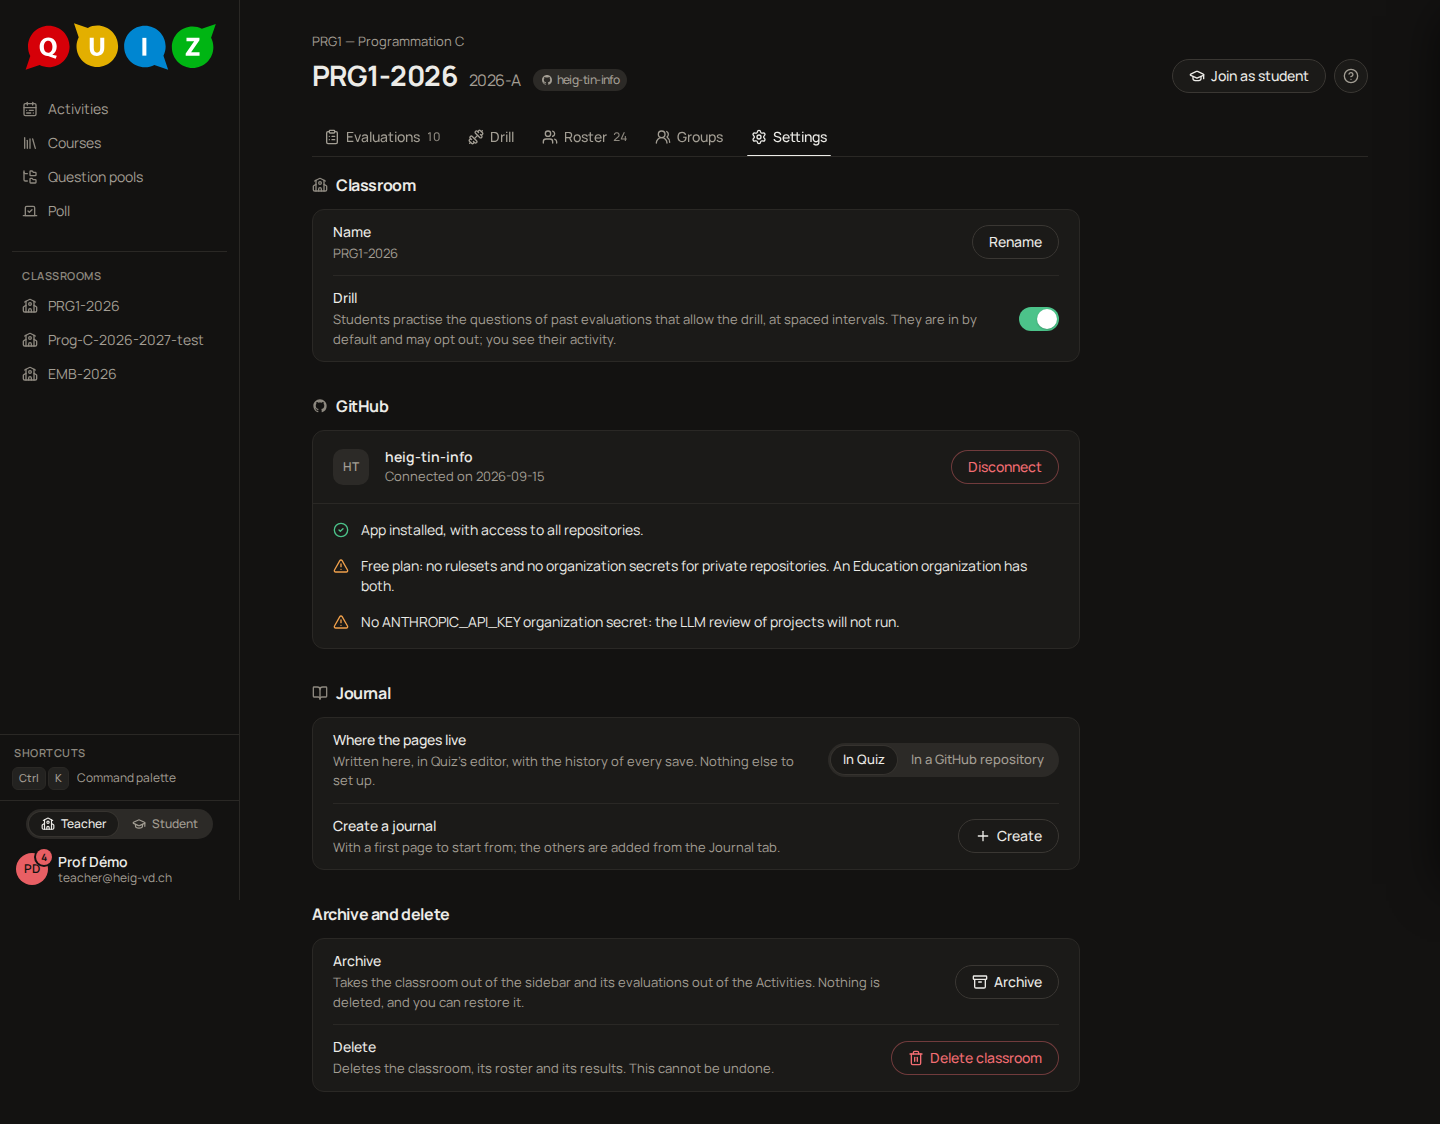
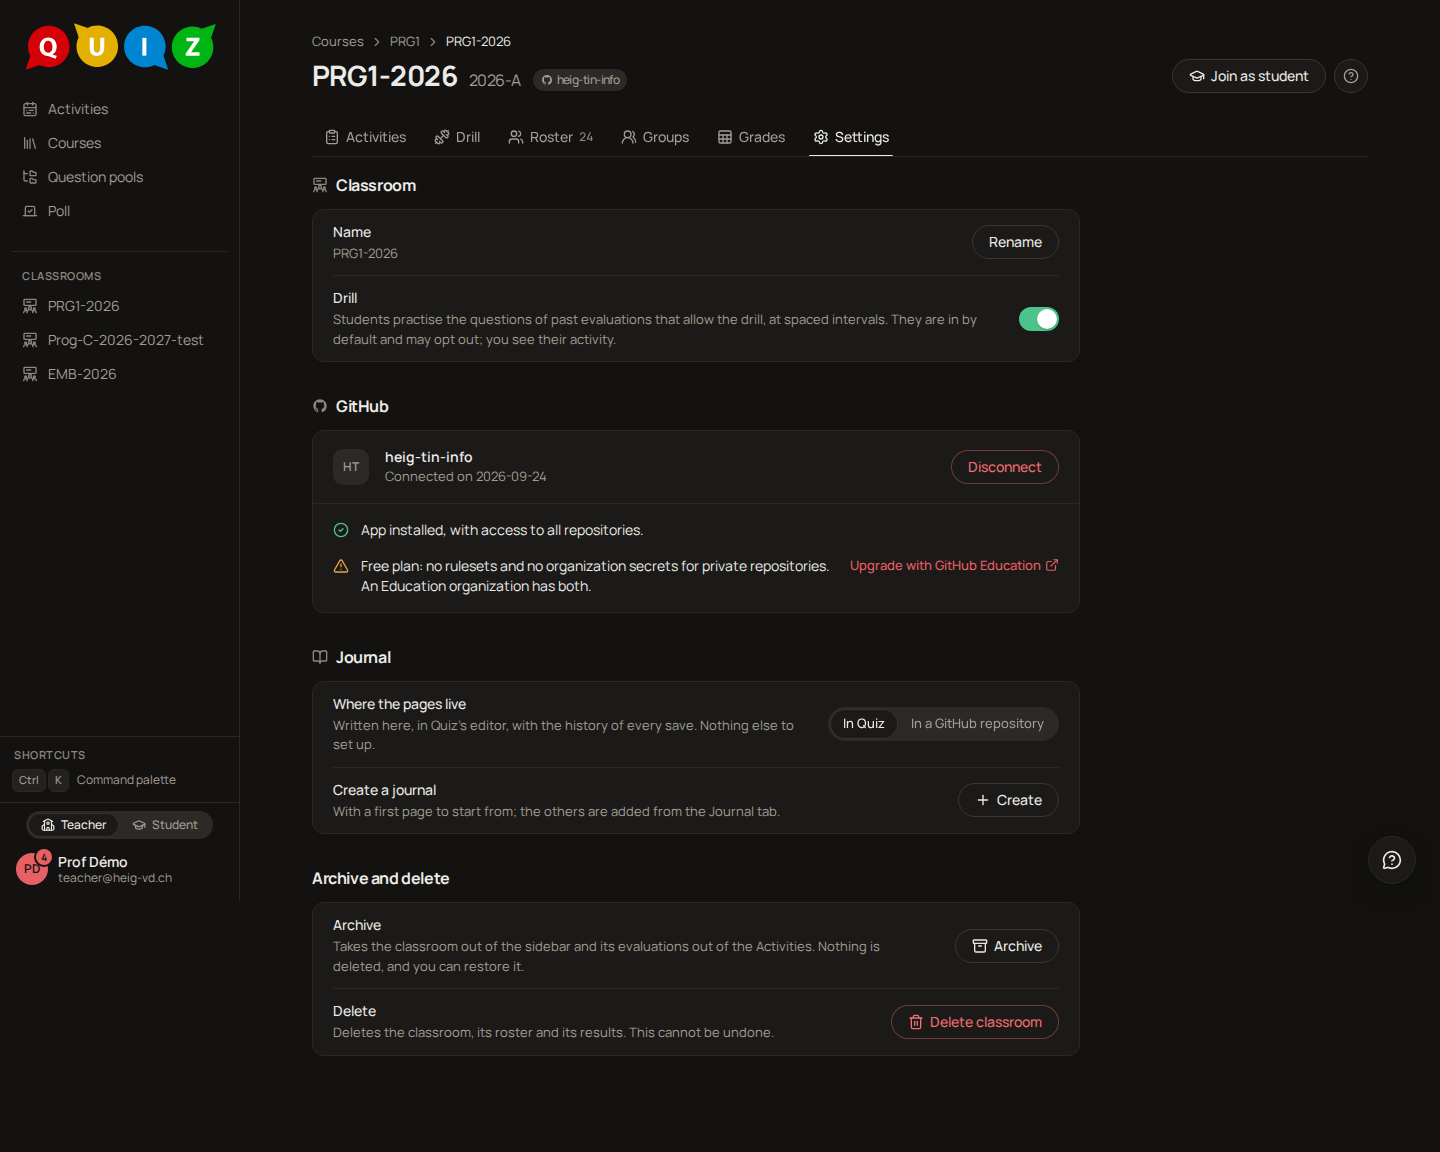
M3-14f: drop the ANTHROPIC_API_KEY organization-secret check
Product owner, 2026-10-14: Quiz reviews projects with its own LLM access
(ADR-106), so the organization's key no longer depends on Quiz and is no
longer checked. The probe `fetchOrgLlmSecret` and its fake route go,
`GithubChecks` keeps `allRepositories` only, the classroom's GitHub section
shows two checks (installation, plan) and the `github.check.llm*` strings
are removed from en and fr. The App manifest no longer asks for
`organization_secrets`; no code reads an organization's secrets. The
existing Apps keep the permission until their owner removes it on GitHub
(docs/development/github-app.md).

F-GH-03, F-PROJ-11 and N-DATA-05 amended (dated); the guides, the
screenshot of the checks, PROGRESS and the card updated.

diff --git a/apps/api/src/modules/github/github.db.test.ts b/apps/api/src/modules/github/github.db.test.ts
@@ -55,7 +55,6 @@ const installedOrg = (githubOrgId: number, login: string, installationId: number
   installationId,
   selection: "all",
   plan: "team",
-  secret: true,
   exists: true,
   ...more,
 });
@@ -205,7 +204,7 @@ describe("the setup return", () => {
   });
 
   it("records a confirmed installation once, however often GitHub returns", async () => {
-    orgs = [installedOrg(601, "heig-setup", 81, { plan: "free", secret: false })];
+    orgs = [installedOrg(601, "heig-setup", 81, { plan: "free" })];
     for (let i = 0; i < 2; i += 1) {
       expect((await setup("installation_id=81&setup_action=install")).statusCode).toBe(303);
     }
@@ -334,7 +333,7 @@ describe("a classroom's link", () => {
     expect(res.statusCode).toBe(200);
     expect(res.json<GithubClassroom>().link).toMatchObject({
       org: { id: installed.id, installed: true },
-      checks: { allRepositories: true, llmSecret: "present" },
+      checks: { allRepositories: true },
     });
     expect(await audits("github_org.link", room)).toHaveLength(1);
     // The same organization again writes nothing.
@@ -547,25 +546,25 @@ describe("the lazy healing", () => {
     const room = await classroom("heal");
     const imported = await orgRow({ login: "heig-imported" });
     await link(room, imported.id);
-    orgs = [installedOrg(901, "heig-imported", 111, { selection: "selected", secret: false })];
+    orgs = [installedOrg(901, "heig-imported", 111, { selection: "selected" })];
 
     const read = async () => (await call("GET", `/app/api/classrooms/${room}/github`, teacher)).json<GithubClassroom>();
     const first = await read();
     expect(first.link).toMatchObject({
       org: { id: imported.id, installed: true, status: "active", plan: "team" },
-      checks: { allRepositories: false, llmSecret: "missing" },
+      checks: { allRepositories: false },
     });
     expect(first.link!.org.avatarUrl).toBe(`/app/api/github/orgs/${imported.id}/avatar`);
     expect(await audits("github_org.installation_resolved", imported.id)).toHaveLength(1);
 
     // Within the minute: the stored row and the cached checks, no GitHub call.
     gh.calls.length = 0;
-    orgs[0]!.secret = true;
-    expect((await read()).link!.checks.llmSecret).toBe("missing");
+    orgs[0]!.selection = "all";
+    expect((await read()).link!.checks.allRepositories).toBe(false);
     expect(gh.calls).toEqual([]);
 
     server.clock.advance(HEAL_TTL_MS);
-    expect((await read()).link!.checks.llmSecret).toBe("present");
+    expect((await read()).link!.checks.allRepositories).toBe(true);
     expect(gh.calls.length).toBeGreaterThan(0);
   });
 
@@ -587,7 +586,7 @@ describe("the lazy healing", () => {
     const res = await call("GET", `/app/api/classrooms/${room}/github`, teacher);
     expect(res.json<GithubClassroom>().link).toMatchObject({
       org: { installed: false, status: "deleted" },
-      checks: { allRepositories: null, llmSecret: "unknown" },
+      checks: { allRepositories: null },
     });
     expect(await audits("github_org.installation_deleted", gone.id)).toHaveLength(1);
     expect(await audits("github_org.deleted", gone.id)).toHaveLength(1);
@@ -637,7 +636,7 @@ describe("the lazy healing", () => {
     const healed = await call("GET", `/app/api/classrooms/${room}/github`, teacher);
     expect(healed.json<GithubClassroom>().link).toMatchObject({
       org: { id: org.id, installed: false, status: "active" },
-      checks: { allRepositories: null, llmSecret: "unknown" },
+      checks: { allRepositories: null },
     });
     expect(await orgById(org.id)).toMatchObject({ installationId: 171, status: "active" });
     expect((await orgById(org.id)).suspendedAt).not.toBeNull();
@@ -671,7 +670,7 @@ describe("the lazy healing", () => {
     const res = await call("GET", `/app/api/classrooms/${room}/github`, teacher);
     expect(res.json<GithubClassroom>().link).toMatchObject({
       org: { id: ours.id, installed: false, status: "deleted" },
-      checks: { allRepositories: null, llmSecret: "unknown" },
+      checks: { allRepositories: null },
     });
     expect(await orgById(ours.id)).toMatchObject({ githubOrgId: 1101, installationId: null, status: "deleted" });
     // The classroom stays on its own organization, now deleted.

diff --git a/apps/web/src/github/checks.ts b/apps/web/src/github/checks.ts
@@ -3,13 +3,12 @@
  * as data: one line per fact, its state, and the sentence that words it.
  * The API sends each fact once (M2-01): the installation line is derived
  * from the organization (`installed`, `status`) and `checks.allRepositories`,
- * the plan line from `org.plan` (`free` ⇒ the warning, null ⇒ unknown), the
- * LLM secret line from `checks.llmSecret`. No sentence comes from the server
- * (invariant 1).
+ * the plan line from `org.plan` (`free` ⇒ the warning, null ⇒ unknown). The
+ * organization's `ANTHROPIC_API_KEY` secret is no longer checked (M3-14f).
+ * No sentence comes from the server (invariant 1).
  *
  * Only the installation line blocks: without the App on every repository,
- * nothing GitHub-backed works. A free plan and a missing secret are
- * warnings; a fact GitHub did not tell is `unknown`, never green. The levels
+ * nothing GitHub-backed works. A free plan is a warning; a fact GitHub did not tell is `unknown`, never green. The levels
  * are the launch checklist's (`CheckLevel`, `ui`).
  */
 import type { GithubClassroomLink } from "@quiz/contracts";
@@ -18,7 +17,7 @@ import type { Dict } from "../i18n/en";
 import type { CheckLevel } from "../ui";
 
 export interface CheckLine {
-  id: "installation" | "plan" | "llmSecret";
+  id: "installation" | "plan";
   level: CheckLevel;
   text: keyof Dict;
   vars?: Record<string, string>;
@@ -55,13 +54,7 @@ function planLine({ org }: GithubClassroomLink): CheckLine {
   return { id, level: "ok", text: "github.check.plan", vars: { plan: org.plan } };
 }
 
-const LLM_SECRET: Record<GithubClassroomLink["checks"]["llmSecret"], CheckLine> = {
-  present: { id: "llmSecret", level: "ok", text: "github.check.llmPresent" },
-  missing: { id: "llmSecret", level: "warning", text: "github.check.llmMissing" },
-  unknown: { id: "llmSecret", level: "unknown", text: "github.check.llmUnknown" },
-};
-
-/** The three lines, in the order of the spec: installation, plan, LLM secret. */
+/** The two lines, in the order of the spec: installation, plan. */
 export function githubChecks(link: GithubClassroomLink, installUrl: string): CheckLine[] {
-  return [installationLine(link, installUrl), planLine(link), LLM_SECRET[link.checks.llmSecret]];
+  return [installationLine(link, installUrl), planLine(link)];
 }

diff --git a/apps/web/src/github/checks.test.ts b/apps/web/src/github/checks.test.ts
@@ -28,7 +28,7 @@ const link = (over: {
     ...over.org,
   },
   linkedAt: "2026-09-01T00:00:00.000Z",
-  checks: { allRepositories: true, llmSecret: "present", ...over.checks },
+  checks: { allRepositories: true, ...over.checks },
 });
 
 const states = (l: GithubClassroomLink) => githubChecks(l, INSTALL).map((c) => [c.id, c.level, c.text]);
@@ -38,20 +38,13 @@ describe("githubChecks", () => {
     expect(states(link({}))).toEqual([
       ["installation", "ok", "github.check.installed"],
       ["plan", "ok", "github.check.plan"],
-      ["llmSecret", "ok", "github.check.llmPresent"],
     ]);
     expect(githubChecks(link({}), INSTALL)[1]!.vars).toEqual({ plan: "team" });
   });
 
-  it("warns on the free plan and on a missing secret, and says what is unknown", () => {
-    expect(states(link({ org: { plan: "free" }, checks: { llmSecret: "missing" } })).slice(1)).toEqual([
-      ["plan", "warning", "github.check.planFree"],
-      ["llmSecret", "warning", "github.check.llmMissing"],
-    ]);
-    expect(states(link({ org: { plan: null }, checks: { llmSecret: "unknown" } })).slice(1)).toEqual([
-      ["plan", "unknown", "github.check.planUnknown"],
-      ["llmSecret", "unknown", "github.check.llmUnknown"],
-    ]);
+  it("warns on the free plan, and says when the plan is unknown", () => {
+    expect(states(link({ org: { plan: "free" } })).slice(1)).toEqual([["plan", "warning", "github.check.planFree"]]);
+    expect(states(link({ org: { plan: null } })).slice(1)).toEqual([["plan", "unknown", "github.check.planUnknown"]]);
   });
 
   it("links the free plan to GitHub Education, and no other plan", () => {

diff --git a/apps/web/src/github/ClassroomGithub.test.tsx b/apps/web/src/github/ClassroomGithub.test.tsx
@@ -35,7 +35,7 @@ const GONE = org({ id: "0190d3c4-0000-7000-8000-00000000a003", login: "old-org",
 
 const plain: GithubClassroom = { link: null, suggestedOrgId: EMB.id, installUrl: INSTALL };
 const connected: GithubClassroom = {
-  link: { org: TIN, linkedAt: "2026-09-01T00:00:00.000Z", checks: { allRepositories: true, llmSecret: "missing" } },
+  link: { org: TIN, linkedAt: "2026-09-01T00:00:00.000Z", checks: { allRepositories: true } },
   suggestedOrgId: null,
   installUrl: INSTALL,
 };
@@ -206,11 +206,10 @@ describe("the classroom's GitHub section", () => {
     expect(await screen.findByText("heig-tin-info")).toBeVisible();
     const checks = screen.getByRole("list", { name: "Checks" });
     const lines = within(checks).getAllByRole("listitem");
-    expect(lines.map((l) => l.getAttribute("data-level"))).toEqual(["ok", "ok", "warning"]);
+    expect(lines.map((l) => l.getAttribute("data-level"))).toEqual(["ok", "ok"]);
     expect(lines[0]).toHaveTextContent("App installed, with access to all repositories.");
     expect(lines[1]).toHaveTextContent("Plan: team.");
-    expect(lines[2]).toHaveTextContent("No ANTHROPIC_API_KEY organization secret");
-    expect(within(lines[2]!).getByRole("img", { name: "Warning" })).toBeInTheDocument();
+    expect(checks).not.toHaveTextContent("ANTHROPIC_API_KEY");
     expect(screen.queryByRole("button", { name: "Connect to GitHub" })).toBeNull();
   });
 

diff --git a/apps/api/src/github/testing.ts b/apps/api/src/github/testing.ts
@@ -60,7 +60,6 @@ export interface FakeOrg {
   installationId: number | null;
   selection: "all" | "selected";
   plan: string;
-  secret: boolean;
   /** False: GitHub has no organization under that login any more. */
   exists: boolean;
   /** The installation is suspended (`suspended_at` set). */
@@ -79,7 +78,7 @@ export interface FakeOrg {
  * The REST routes the `github` module's adapters call, answered from a
  * world of organizations the test mutates: installation tokens, the App's
  * installations (listing and by id), an organization's installation, plan,
- * LLM secret, its members, and the accounts `users` names by id (`GET
+ * its members, and the accounts `users` names by id (`GET
  * /user/{id}`, how a linked account's login is read today).
  */
 export function orgsRoute(orgs: () => FakeOrg[], users: () => Map<number, string> = () => new Map()): Route {
@@ -133,9 +132,6 @@ export function orgsRoute(orgs: () => FakeOrg[], users: () => Map<number, string
     if ((m = /^\/user\/(\d+)$/.exec(path))) {
       const login = users().get(Number(m[1]));
       return login ? json({ id: Number(m[1]), login }) : undefined;
-    }
-    if ((m = /^\/orgs\/([^/]+)\/actions\/secrets\/ANTHROPIC_API_KEY$/.exec(path))) {
-      return byLogin(m[1]!)?.secret ? json({ name: "ANTHROPIC_API_KEY" }) : undefined;
     }
     if ((m = /^\/orgs\/([^/]+)$/.exec(path))) {
       const o = byLogin(m[1]!);

diff --git a/apps/api/src/github/app.ts b/apps/api/src/github/app.ts
@@ -342,33 +342,6 @@ export async function fetchOrgPlan(
 }
 
 /**
- * Presence of the ANTHROPIC_API_KEY organization secret: without it the LLM
- * review tier dies at every deadline/milestone ("Could not resolve
- * authentication method", seen live 2026-07-14). Requires the App's org
- * Secrets read permission; null = indeterminate (permission not granted
- * yet, API error) — never warn on it. Presence only: the value's validity
- * still shows up at the first review run.
- */
-export async function fetchOrgLlmSecret(
-  config: AppConfig,
-  installationId: number,
-  orgLogin: string,
-  read: ReadOptions = {},
-): Promise<"ok" | "missing" | null> {
-  try {
-    const { octokit } = await installationClient(config, installationId);
-    await octokit.request("GET /orgs/{org}/actions/secrets/{secret_name}", {
-      org: orgLogin,
-      secret_name: "ANTHROPIC_API_KEY",
-      request: { retries: 0, ...read },
-    });
-    return "ok";
-  } catch (err) {
-    return githubStatus(err) === 404 ? "missing" : null;
-  }
-}
-
-/**
  * GET /orgs/{org}/installation; null if the App is not installed there. The
  * login is only what GitHub resolves TODAY: the caller compares the
  * returned `githubOrgId` with the one it holds (a login can be reused by

diff --git a/apps/api/src/github/app.test.ts b/apps/api/src/github/app.test.ts
@@ -2,7 +2,6 @@ import { afterAll, afterEach, beforeEach, describe, expect, it, vi } from "vites
 
 import { loadConfig } from "../config.js";
 import {
-  fetchOrgLlmSecret,
   fetchOrgPlan,
   githubApp,
   installationClient,
@@ -171,16 +170,5 @@ describe("the App (Quiz's own, D23)", () => {
     expect(await fetchOrgPlan(config, 42, "heig-tin-info")).toBe("free");
     gh.routes = [token, on("GET", "/orgs/heig-tin-info", () => json({ login: "heig-tin-info" }))];
     expect(await fetchOrgPlan(config, 42, "heig-tin-info")).toBeNull();
-  });
-
-  it("probes the LLM secret: ok, missing, or indeterminate", async () => {
-    const config = configured();
-    const secret = "/orgs/heig-tin-info/actions/secrets/ANTHROPIC_API_KEY";
-    gh.routes = [token, on("GET", secret, () => json({ name: "ANTHROPIC_API_KEY" }))];
-    expect(await fetchOrgLlmSecret(config, 42, "heig-tin-info")).toBe("ok");
-    gh.routes = [token];
-    expect(await fetchOrgLlmSecret(config, 42, "heig-tin-info")).toBe("missing");
-    gh.routes = [token, on("GET", secret, () => json({ message: "Resource not accessible by integration" }, 403))];
-    expect(await fetchOrgLlmSecret(config, 42, "heig-tin-info")).toBeNull();
   });
 });

diff --git a/apps/web/src/mock/github.ts b/apps/web/src/mock/github.ts
@@ -17,7 +17,7 @@
  *
  * Scene flags: `?unlinked=1` (`flags.unlinked`), the persona has no linked
  * GitHub account (`GET /app/api/me/github`); `?ghwarn=1`, PRG1-2026's
- * organization is on the free plan and has no LLM secret; `?ghmissing=1`,
+ * organization is on the free plan; `?ghmissing=1`,
  * that organization no longer exists on GitHub; `?ghnogrant=1`, no
  * organization is open to the classrooms not connected (the sheet lists none).
  */
@@ -65,9 +65,7 @@ const LINKS: Record<string, GithubClassroomLink> = {
   r1: {
     org: linkedOrg(),
     linkedAt: iso(-20 * D),
-    checks: flags.ghmissing
-      ? { allRepositories: null, llmSecret: "unknown" }
-      : { allRepositories: true, llmSecret: flags.ghwarn ? "missing" : "present" },
+    checks: { allRepositories: flags.ghmissing ? null : true },
   },
 };
 
@@ -114,7 +112,7 @@ on("PUT", "/app/api/classrooms/:id/github", (m, body) => {
   LINKS[id] = {
     org,
     linkedAt: iso(0),
-    checks: { allRepositories: true, llmSecret: org.plan === "free" ? "unknown" : "present" },
+    checks: { allRepositories: true },
   };
   return classroomGithub(id);
 });

diff --git a/apps/api/src/modules/github/service.ts b/apps/api/src/modules/github/service.ts
@@ -44,7 +44,6 @@ import {
 } from "../../db/schema.js";
 import {
   fetchInstallation,
-  fetchOrgLlmSecret,
   fetchOrgPlan,
   githubStatus,
   HTTP_READ,
@@ -72,7 +71,7 @@ type OrgRow = typeof githubOrganizations.$inferSelect;
  */
 export const HEAL_TTL_MS = 60_000;
 
-const UNKNOWN_CHECKS: GithubChecks = { allRepositories: null, llmSecret: "unknown" };
+const UNKNOWN_CHECKS: GithubChecks = { allRepositories: null };
 
 interface Healed {
   org: OrgRow;
@@ -596,14 +595,7 @@ async function heal(db: Db, config: AppConfig, stored: OrgRow): Promise<Healed> 
     return { org, checks: UNKNOWN_CHECKS };
   }
   org = await refreshPlan(config, db, await recordInstallation(db, inst, "healing"));
-  const secret = await fetchOrgLlmSecret(config, inst.installationId, org.login, HTTP_READ);
-  return {
-    org,
-    checks: {
-      allRepositories: inst.allRepositories,
-      llmSecret: secret === "ok" ? "present" : (secret ?? "unknown"),
-    },
-  };
+  return { org, checks: { allRepositories: inst.allRepositories } };
 }
 
 // ---------------------------------------------------------------- a classroom's link

diff --git a/packages/contracts/src/github.ts b/packages/contracts/src/github.ts
@@ -54,13 +54,12 @@ export type GithubOrg = z.infer<typeof GithubOrg>;
  * What the organization alone does not say (F-GH-03), read from GitHub when
  * the classroom's Settings open:
  *   - `allRepositories` — the installation covers every repository; null
- *     when it could not be read (not installed, GitHub silent);
- *   - `llmSecret` — the `ANTHROPIC_API_KEY` organization secret for the LLM
- *     review of projects; `unknown` when the App cannot read secrets.
+ *     when it could not be read (not installed, GitHub silent).
+ * The organization's `ANTHROPIC_API_KEY` secret is no longer checked: the
+ * projects' review runs on Quiz's own LLM (M3-14f, product owner, 2026-10-14).
  */
 export const GithubChecks = z.object({
   allRepositories: z.boolean().nullable(),
-  llmSecret: z.enum(["present", "missing", "unknown"]),
 });
 export type GithubChecks = z.infer<typeof GithubChecks>;
 

diff --git a/apps/web/src/i18n/fr.ts b/apps/web/src/i18n/fr.ts
@@ -6471,9 +6471,6 @@ export const fr: Record<keyof Dict, string> = {
   "github.check.plan": "Offre : {plan}.",
   "github.check.planFree": "Offre gratuite : pas de rulesets ni de secrets d'organisation pour les dépôts privés. Une organisation Education a les deux.",
   "github.check.planUnknown": "L'offre de l'organisation n'a pas encore été lue.",
-  "github.check.llmPresent": "Le secret ANTHROPIC_API_KEY est défini : la relecture des projets par LLM peut tourner.",
-  "github.check.llmMissing": "Pas de secret d'organisation ANTHROPIC_API_KEY : la relecture des projets par LLM ne tournera pas.",
-  "github.check.llmUnknown": "L'app ne peut pas lire les secrets de l'organisation : on ne sait pas si ANTHROPIC_API_KEY est défini.",
   "github.level.ok": "OK",
   "github.level.warning": "Avertissement",
   "github.level.blocker": "Bloquant",

diff --git a/apps/web/src/mock/runtime.ts b/apps/web/src/mock/runtime.ts
@@ -33,8 +33,8 @@ export const role: Role = (localStorage.getItem(ROLE_KEY) as Role | null) ?? "te
  * `kiosk`: the open exam of the student's home is sat on a kiosk station (ADR-051).
  * `reviewed`: the student already did today's drill, the empty day (`mock/drill.ts`).
  * `unlinked`: the persona has no linked GitHub account (`mock/github.ts`).
- * `ghwarn`: PRG1-2026's organization is on GitHub's free plan, without the
- *   LLM secret — the warning lines of the checks (`mock/github.ts`).
+ * `ghwarn`: PRG1-2026's organization is on GitHub's free plan — the warning
+ *   line of the checks (`mock/github.ts`).
  * `ghmissing`: PRG1-2026's organization is gone from GitHub (`mock/github.ts`).
  * `ghnogrant`: no organization is open to the courses' classrooms (ADR-100):
  *   the connect sheet lists none (`mock/github.ts`).
